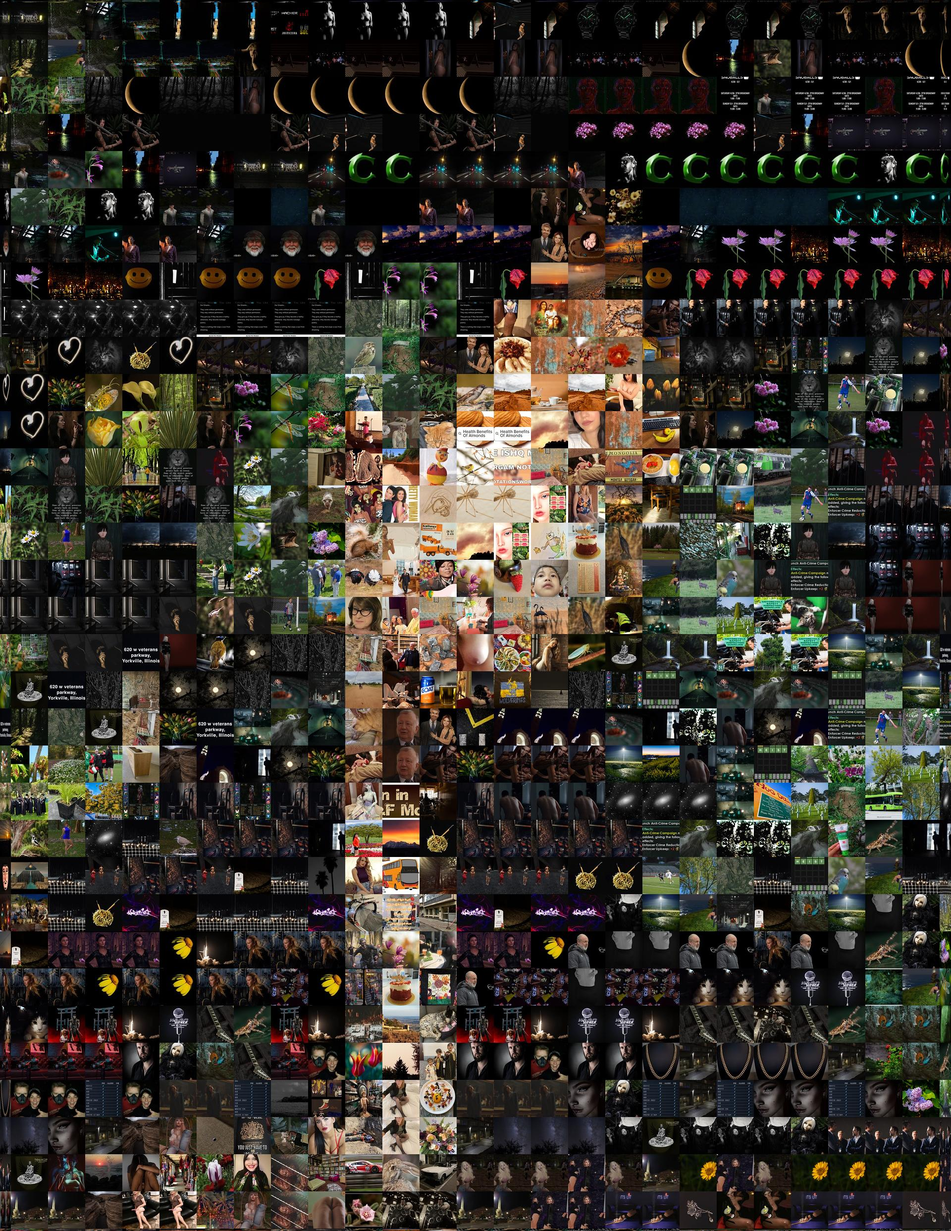
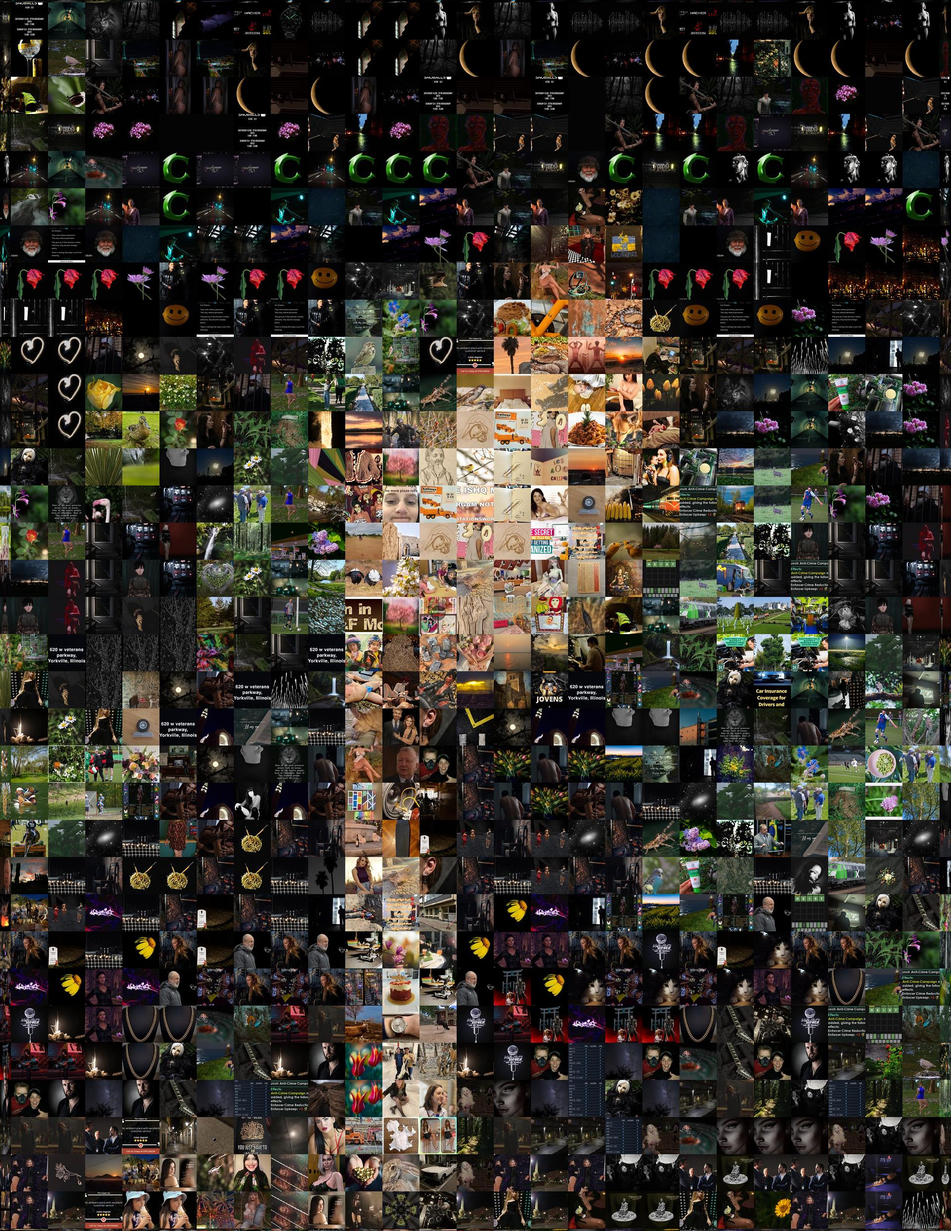
Add more randomness

diff --git a/final/README.md b/final/README.md
@@ -28,7 +28,7 @@
 
     - Then I obtain the Euclidean norm of each row using formula: <img src="https://render.githubusercontent.com/render/math?math=\sqrt{\text{red_diff}^2 %2B \text{green_diff}^2 %2B \text{blue_diff}^2}">
 
-    - Among all Euclidean norms, I find the smallest one and use the corresponding image for that tile.
+    - Among all Euclidean norms, I find a smallest one and use the corresponding image for that tile.
 
 4. Improvements:
 
@@ -36,6 +36,8 @@
         - I introduced the randomness by limiting the number of times that the same tile can appear.
 
           For my results, I'm using a hard limit of 5.
+
+        - When finding the appropriate tile using the Euclidean norms, I get the five smallest ones and randomly pick one of them.
 
 ## Results
 
